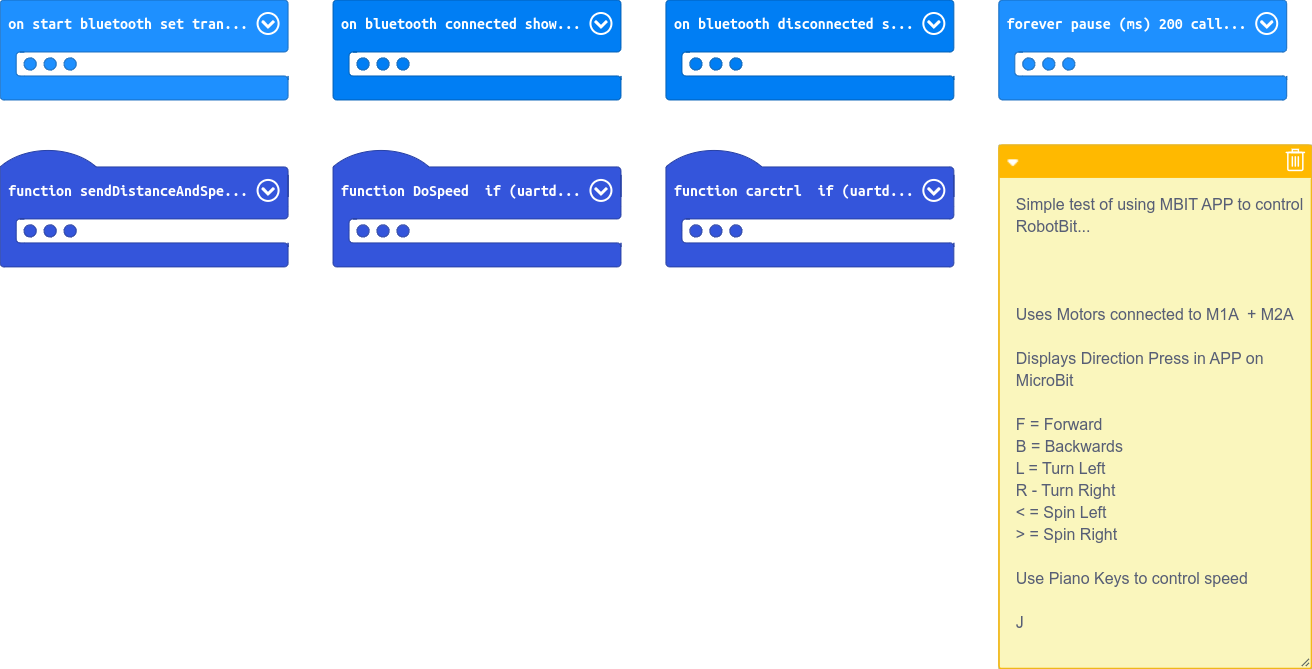
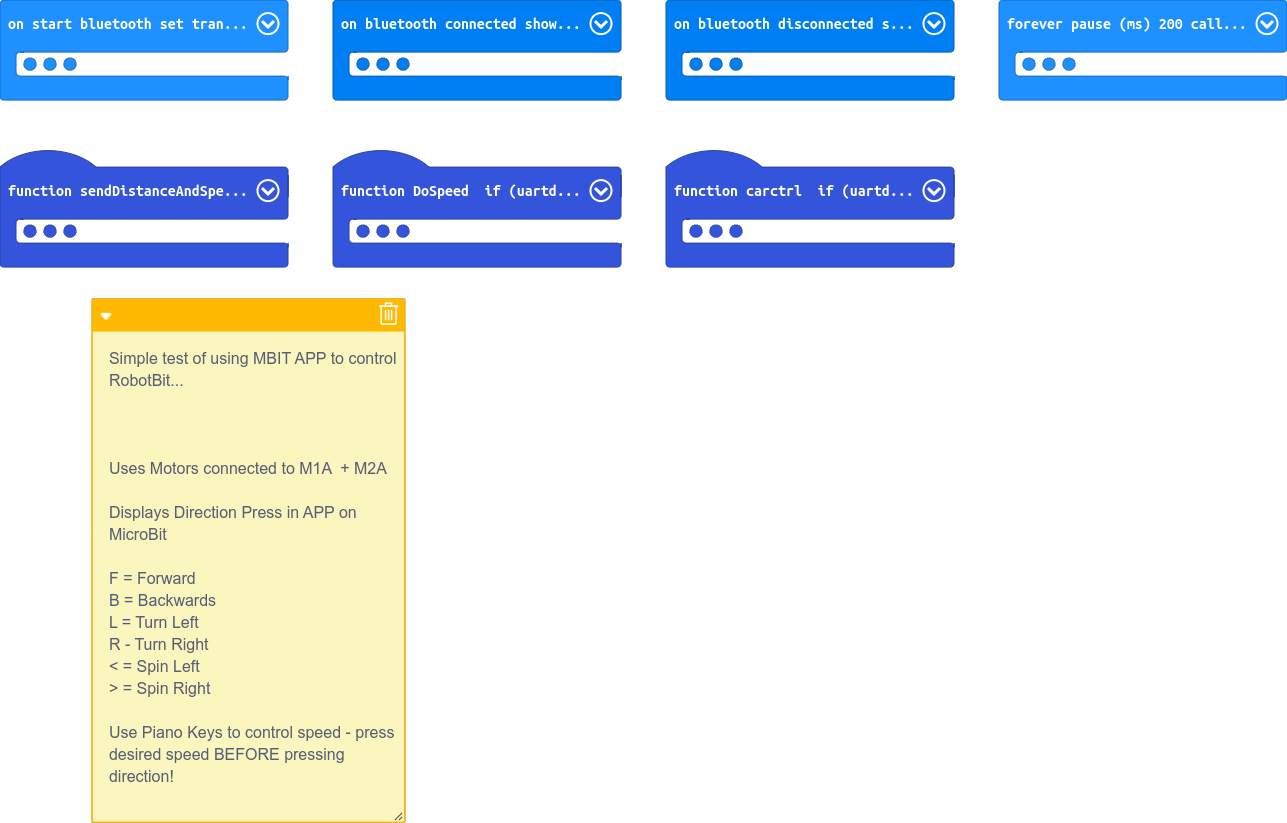
Update main.blocks, main.ts

diff --git a/main.ts b/main.ts
@@ -17,7 +17,7 @@
  * 
  * > = Spin Right
  * 
- * Use Piano Keys to control speed 
+ * Use Piano Keys to control speed - press desired speed BEFORE pressing direction!
  * 
  * J
  */
